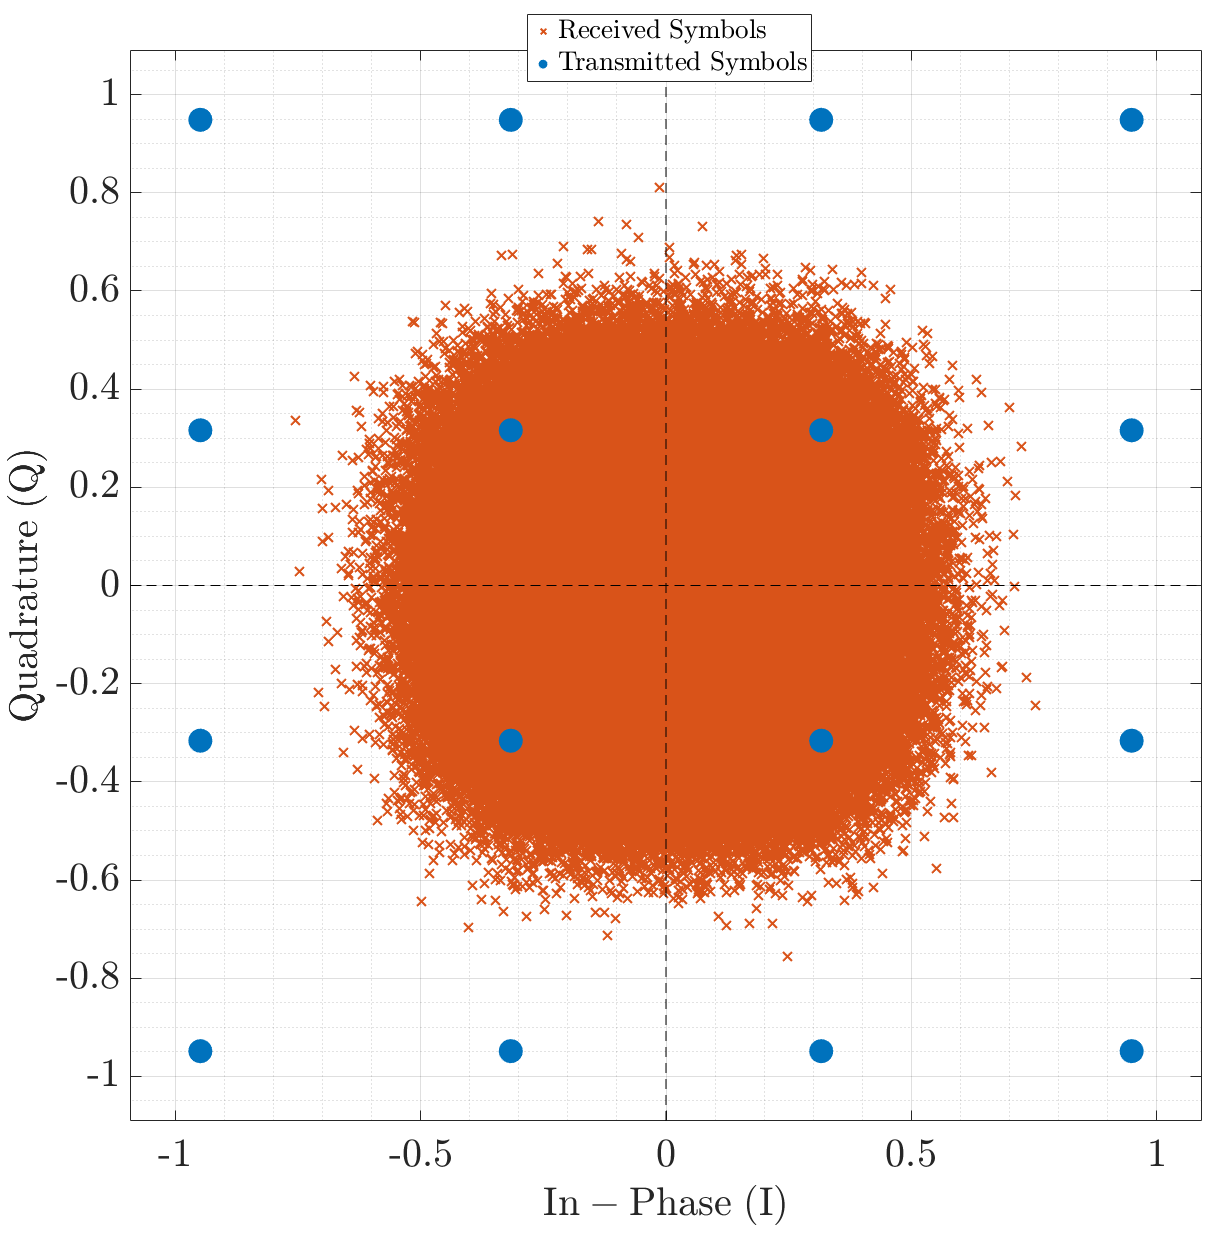
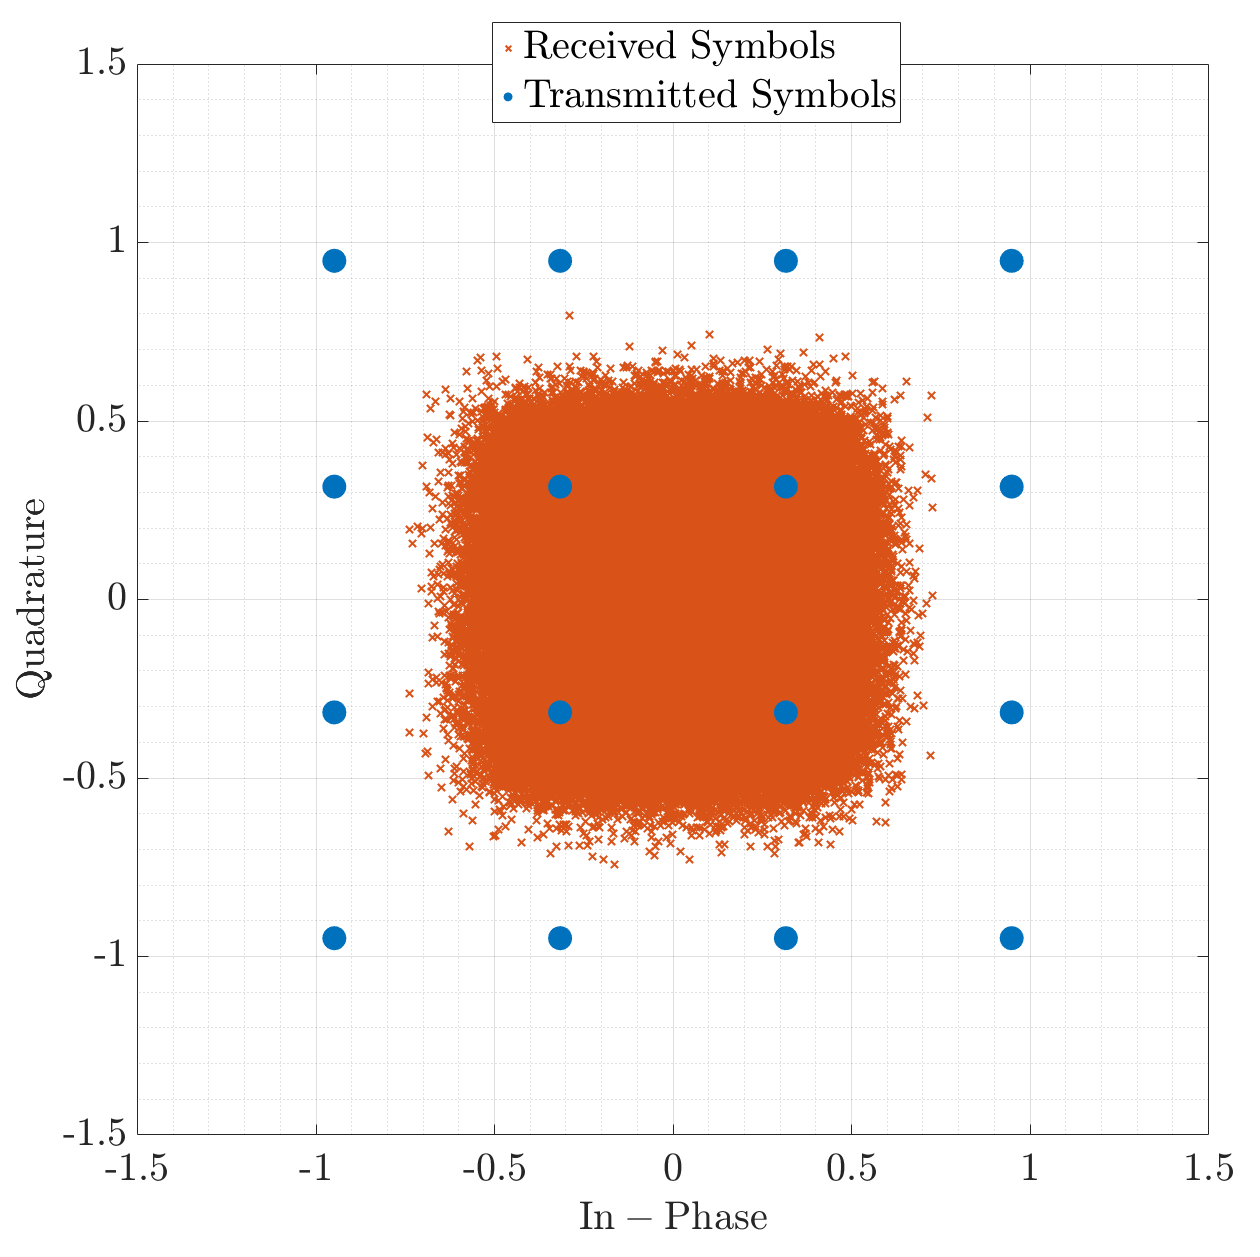
Update Report

diff --git a/ELEC-H401 - Report/Content/part1_v3.tex b/ELEC-H401 - Report/Content/part1_v3.tex
@@ -1,0 +1,149 @@
+\section{Optimal Communication Chain over the Ideal Channel}
+\subsection{Communication Chain}
+\begin{figure}[H]
+	\centering
+	\includegraphics[angle=-90, width=0.9\linewidth]{Images/com-chain} % Ensure 'Images/com-chain' path is correct
+	\caption{Block diagram of the communication system.}
+	\label{fig:com-chain}
+\end{figure}
+The communication chain simulated in this project, depicted in Figure \ref{fig:com-chain}, models the pipeline of a DVB-C transmitter and receiver at baseband. On the transmitter side, a bit-stream is generated, then mapped to complex symbols from a chosen QAM modulation. These symbols are subsequently up-sampled and shaped by a half-root Nyquist filter to limit their bandwidth. On the receiver's side, the transmitted signal is matched-filtered with the same half-root Nyquist filter, in order to maximize the signal-to-noise ratio. The output of this matched filter is then down-sampled at the symbol instances, and these samples are demapped to recover an estimate of the transmitted bit-stream.
+\par
+In this project, the Low Density Parity Check Encoder is not implemented, and the algorithms for symbol mapping and demapping were provided.
+
+\subsection{Bit Generation and Symbol Mapping and Demapping}
+The mapping of bit-streams to complex symbols is used to enhance spectral efficiency, as it allows more bits to be transmitted per symbol over a given bandwidth. In the implemented receiver, symbol demapping converts the noisy received symbols back into an estimated sequence of bits. This demapping was achieved using the Maximum Likelihood (ML) criterion. The ML principle directs the selection of the constellation symbol that is closest to the received sample in terms of minimum Euclidean distance:
+\begin{equation}
+	\tilde{\underline{s}}_{m}^{ML} = \arg\min_{\underline{s}_{m}} \left(\sum_{k=1}^{K}(r_{k}-s_{mk})^{2}\right)
+\end{equation}
+Where:
+\begin{itemize}
+	\item $\tilde{\underline{s}}_{m}^{ML}$ is the estimated symbol using the ML criterion.
+	\item $\underline{r} = [r_1, r_2, \dots, r_K]^T$ is the received vector after demodulation.
+	\item $\underline{s}_{m} = [s_{m1}, s_{m2}, \dots, s_{mK}]^T$ is the vector representing the $m$-th possible transmitted symbol.
+\end{itemize}
+This selection process, by minimizing the squared Euclidean distance, is equivalent to maximizing $\ln p(\underline{r}|\underline{s}_{m})$ for an Additive White Gaussian Noise (AWGN) channel, where $p(\underline{r}|\underline{s}_{m})$ is the conditional probability of receiving vector $\underline{r}$ given that symbol $\underline{s}_m$ was sent.
+
+\subsection{Nyquist Filtering}
+After mapping, the sequence of complex symbols $I[k]$ is up-sampled by a factor of OSF $> 1$. This up-sampled sequence is then passed through a pulse shaping filter $g(t)$. The goals of this filtering are:
+\begin{enumerate}
+	\item To limit the bandwidth of the transmitted signal.
+	\item To control interference between successive symbols.
+\end{enumerate}
+
+\subsubsection{Half-Root Nyquist Filter Design and Matched Filtering}
+To achieve optimal performance regarding Inter-Symbol Interference (ISI) cancellation and to maximize the Signal-to-Noise Ratio at the receiver, a root-raised cosine (RRC) filter was utilized for $g(t)$. This approach involves employing the RRC filter $g(t)$ at the transmitter and its matched version $g^*(-t)$ at the receiver. The convolution of these two filters, $h(t) = g(t) \otimes g^*(-t)$, forms the overall channel response. This resulting $h(t)$ is designed to satisfy the Nyquist criterion for zero ISI, which states that for symbols sampled at intervals $T_{symb}$ (assuming $h(t)$ is normalized):
+\begin{equation}
+	h(kT_{symb}) = \begin{cases}
+		1 & k=0 \\
+		0 & k \neq 0
+	\end{cases}
+	\label{eq:nyquist_criterion_part1}
+\end{equation}
+\par
+The design process for the RRC filter $g(t)$ in this work began with defining the transfer function of a raised-cosine (RC) filter, $H(f)$. From $H(f)$, the frequency response of the RRC filter was determined as $G(f) = \sqrt{H(f)}$, and its time-domain equivalent $g(t)$ was subsequently found using an inverse Fourier transform. The frequency response of the RC filter $H(f)$ is given by:
+\begin{equation}
+	H(f) = \begin{cases}
+		T_{symb} & 0 \le |f| < \frac{1-\beta}{2T_{symb}} \\ 
+		\frac{T_{symb}}{2} \left(1 + \cos\left[\frac{\pi T_{symb}}{\beta}\left(|f| - \frac{1-\beta}{2T_{symb}}\right)\right]\right) & \frac{1-\beta}{2T_{symb}} \le |f| \le \frac{1+\beta}{2T_{symb}} \\ 
+		0 & |f| > \frac{1+\beta}{2T_{symb}}
+	\end{cases}
+	\label{eq:rc_response_part1}
+\end{equation}
+
+\subsubsection{Filter Properties and Inter-Symbol Interference Cancellation}
+The RC filter, formed by $g(t)$ and its matched pair, effectively confines the signal energy within a defined bandwidth $B = R_{symb} (1+\beta)/2$, where $R_{symb} = 1/T_{symb}$ is the symbol rate. The frequency response of the RC filter resulting from the implementation using Equation \ref{eq:rc_response_part1} is shown in Figure \ref{fig:h-rc-freq}. This plot confirms that the filter restricts the signal to its allocated spectrum, showing the  flat passband, a roll-off region, and a stopband. For the project parameters ($R_{symb} = !!!!!!!!!!$ and $\beta = 0.2$), the communication bandwidth is $B = 0.6 R_{symb}$.
+
+\begin{figure}[H]
+	\centering
+	\includegraphics[width=0.9\linewidth]{Images/h-rc-freq} 
+	\caption{Raised Cosine Filter Frequency Response from simulation ($\beta = 0.2$, $taps = 301$, $OSF = 8$).}
+	\label{fig:h-rc-freq}
+\end{figure}
+
+In the time domain, the overall RC filter $h(t) = g(t) \otimes g^*(-t)$ is designed such that when sampled at the symbol rate, its response approximates a Dirac delta function, thereby satisfying the Nyquist criterion for zero ISI (Equation \ref{eq:nyquist_criterion_part1}). Figure \ref{fig:h-rc} shows the impulse response $h(t)$ obtained in the simulation. The stems, representing $h(kT_{symb})$, demonstrate this property: the normalized response is unity at $t=0$ and zero at $t = \pm T_{symb}, \pm 2T_{symb}, \dots$. This result from the simulation confirms that the implemented filter structure successfully nullifies contributions from other symbols at the optimal sampling instant for a given symbol, thus eliminating ISI.
+
+\begin{figure}[H]
+	\centering
+	\includegraphics[width=0.9\linewidth]{Images/h-rc} 
+	\caption{Normalized RC and RRC filter Impulse Responses from simulation, with $h(kT_{symb})$ illustrating ISI cancellation.}
+	\label{fig:h-rc}
+\end{figure}
+
+\subsection{Noise Addition and Performance Evaluation}
+One of the factors limiting communication performance in an ideal channel is Additive White Gaussian Noise (AWGN), which represents the cumulative effect of various sources of interference and thermal noise within a communication system.\par
+
+In the baseband equivalent model used for the simulation, the received signal $r(t)$ is the sum of the transmitted baseband signal $s(t)$ at the output of the pulse shaping filter $g(t)$ and the complex baseband equivalent noise $n(t)$:
+\begin{equation}
+    r(t) = s(t) + n(t)
+\end{equation} \par
+The noise $n(t)$ is a complex Gaussian random process. Its real and imaginary components are independent, each with a power spectral density of $N_0/2$ over the bandwidth of interest.\par
+After matched filtering with $g^*(-t)$ and sampling at $t = kT_{symb}$, the $k$-th received sample $y[k]$ can be expressed as:
+\begin{equation}
+    y[k] = (r(t) \otimes g^*(-t))|_{t=kT_{symb}}
+\end{equation}
+\par
+Given that the overall response $h(t) = g(t) \otimes g^*(-t)$ is designed to satisfy the Nyquist criterion for zero ISI (Equation \ref{eq:nyquist_criterion_part1}, with $h(0)$ normalized to 1):
+\begin{align}
+    y[k] &= I[k]h(0) + \sum_{m \neq k} I[m]h((k-m)T_{symb}) + (n(t) \otimes g^*(-t))|_{t=kT_{symb}} \\
+    y[k] &= I[k](1) + \sum_{m \neq k} I[m](0) + (n(t) \otimes g^*(-t))|_{t=kT_{symb}} \\
+    y[k] &= I[k] + n_o[k] \label{eq:yk_plus_noise}
+\end{align}
+where $I[k]$ is the transmitted complex symbol and $n_o[k]$ represents the noise component at the output of the sampler, $n_o[k] = (n(t) \otimes g^*(-t))|_{t=kT_{symb}}$. The noise samples $n_o[k]$ are complex Gaussian random variables. Since the input noise $n(t)$ is white and Gaussian, and the matched filtering operation is linear, $n_o[k]$ is also Gaussian. The real and imaginary components of $n_o[k]$ are independent, and each has a variance $\sigma^2 = N_0/2$. \par
+
+The main goal of this section of the project is to evaluate the system's performance by simulating the Bit Error Rate (BER) as a function of the ratio of bit energy ($E_b$) to the one-sided power spectral density of noise ($N_0$). This evaluation relies on the derived model in Equation \ref{eq:yk_plus_noise}.
+
+To accurately simulate the system at a specific $E_b/N_0$ value, the power of the simulated noise $n_o[k]$ must be correctly set relative to the signal power. The average energy per symbol $E_s$, for a given QAM constellation, is first calculated as:
+\begin{equation}
+    E_s = \text{E}\left[|I[k]|^2\right]
+\end{equation}
+where $\text{E}[\cdot]$ is the expectation operator. 
+\par
+If each symbol $I[k]$ represents $b = \log_2 M$ information bits (where $M$ is the constellation size), the average energy per bit $E_b$ is:
+\begin{equation}
+    E_b = \frac{E_s}{b} = \frac{E_s}{\log_2 M}
+\end{equation}
+\par
+Given a target $E_b/N_0$ value, $N_0$ can be express:
+\begin{equation}
+    N_0 = \frac{E_b}{(E_b/N_0)_{\text{target}}}
+\end{equation}
+\par
+The complex noise $n_o[k]$ added to each symbol $I[k]$ in the simulation as per Equation \ref{eq:yk_plus_noise} is thus generated with a total variance of $N_0$, meaning its real and imaginary components each have a variance of $N_0/2$.
+
+The experimental BER is obtained by transmitting a large number of random bits through the simulated communication chain, adding the scaled AWGN to the symbols as described, demapping the resulting $y[k]$, and then comparing the recovered bits with the originally transmitted bits:
+\begin{equation}
+    \text{BER}_{\text{exp}} = \frac{\text{Number of erroneously detected bits}}{\text{Total number of transmitted bits}}
+\end{equation}
+The simulated BER values are then plotted against a range of $E_b/N_0$ values. These experimental results are compared against theoretical BER performance for M-QAM to validate the simulation. For square M-QAM constellations with Gray coding, the theoretical Bit Error Rate ($P_b$) is approximated at moderate to high $E_b/N_0$ values by:
+\begin{equation}
+    P_b \approx \frac{4}{\log_2 M} \left(1 - \frac{1}{\sqrt{M}}\right) Q\left(\sqrt{\frac{3 (\log_2 M)^2}{M-1} \frac{E_b}{N_0}}\right)
+    \label{eq:Pb_MQAM_Eb_cont_final}
+\end{equation}
+where $Q(x) = \frac{1}{\sqrt{2\pi}} \int_x^\infty e^{-u^2/2} du$ is the Q-function.
+
+Figure \ref{fig:ber-mod_cont} illustrates the BER curves obtained from the simulations for various QAM modulations. These results demonstrate the  trade-off between spectral efficiency and power efficiency; higher-order modulations achieve higher data rates within the same bandwidth but require more power for the same BER.
+
+\begin{figure}[H]
+    \centering
+    \includegraphics[width=0.9\linewidth]{Images/ber-mod.png}
+    \caption{Simulated BER vs. $E_b/N_0$ for various modulation types}
+    \label{fig:ber-mod_cont}
+\end{figure}
+
+The effect of AWGN on the received signal constellation, leading to the $y[k]$ values, is depicted in Figure \ref{fig:constellations-noise_cont} using results from the 16-QAM simulation. Figure \ref{fig:const-noisy_cont} shows the simulated 16-QAM symbols after the addition of noise, representing $s(t)+n(t)$ before sampling and matched filtering. After, matched filtering and downsampling (leading to $y[k]=I[k]+n_o[k]$), the symbols, as shown in Figure \ref{fig:const-filtered-down_cont}, cluster around the ideal constellation locations, hence validating the SNR maximization effect of the matched filter.
+
+\begin{figure}[H]
+    \centering
+    \begin{subfigure}{0.48\textwidth}
+        \includegraphics[width=\linewidth]{Images/const-noisy.png}
+        \caption{Simulated noisy 16-QAM symbols before matched filter.}
+        \label{fig:const-noisy_cont}
+    \end{subfigure}\hfill
+    \begin{subfigure}{0.48\textwidth}
+        \includegraphics[width=\linewidth]{Images/const-filtered-down.png} 
+        \caption{Simulated 16-QAM symbols after matched filtering and downsampling.}
+        \label{fig:const-filtered-down_cont}
+    \end{subfigure}
+    \caption{Simulation - Effect of AWGN and matched filtering on a 16-QAM constellation}
+    \label{fig:constellations-noise_cont}
+\end{figure}

diff --git a/ELEC-H401 - Report/Content/part1_v2.tex b/ELEC-H401 - Report/Content/part1_v2.tex
@@ -28,7 +28,7 @@ Where:
 \end{itemize}
 
 \subsection{Nyquist Filtering}
-The sequence of complex symbols $I[n]$, after mapping, is up-sampled by a factor of $M > 1$ and then passed through a pulse shaping filter $g(t)$. This filtering is essential for:
+The sequence of complex symbols $I[k]$, after mapping, is up-sampled by a factor of $OSF > 1$ and then passed through a pulse shaping filter $g(t)$. This filtering is essential for:
 \begin{enumerate}
 	\item Limiting the bandwidth of the transmitted signal.
 	\item Controlling interference between successive symbols.
@@ -67,11 +67,92 @@ In the time domain, the impulse response of the overall RC filter $h(t)$, when s
 \begin{figure}[H]
 	\centering
 	\includegraphics[width=0.9\linewidth]{Images/h-rc} % Ensure 'Images/h-rc' path is correct
-	\caption{Normalized RC and RRC filter Impulse Responses}
+	\caption{Normalized RC and RRC filter Impulse Responses, and ISI cancellation}
 	\label{fig:h-rc}
 \end{figure}
 
 \subsection{Noise Addition and Performance Evaluation}
-\textcolor{red}{[LATER]}
+One of the factor limiting communication performance in an ideal channel is the Additive White Gaussian Noise, which represents the cumulative effect of various sources of interference and thermal noise within a communication system.\par
+
+In the baseband equivalent model, the received signal $r(t)$ is the sum of the transmitted baseband signal $s(t)$ and the complex baseband equivalent noise $n(t)$:
+\begin{equation}
+    r(t) = s(t) + n(t)
+\end{equation} \par
+The noise $n(t)$ is a complex Gaussian random process. Its real and imaginary components are independant, each with a power spectral density of ${N_0}/{2}$ over the bandwidth of interest.\par
+After matched filtering with $g(-t)$ and sampling at $t = kT_{symb}$, the $k$-th received sample $y[k]$
+can be expressed as
+\begin{equation}
+    y[k] = (r(t) \otimes g(-t))|_{t=kT_{symb}}
+\end{equation}
+\par
+Given that the overall response $h(t) = g(t) \otimes g(-t)$ is designed to satisfy the Nyquist criterion for zero ISI:
+\begin{align}
+    y[k] &= I[k]h(0) + \sum_{m \neq k} I[m]h((k-m)T_{symb}) + (n(t) \otimes g(-t))|_{t=kT_{symb}}\\
+    y[k] &= I[k] + (n(t) \otimes g(-t))|_{t=kT_{symb}}\\
+    y[k] &= I[k] + n_o[k]
+\end{align}
+where $I[k]$ is the transmitted complex symbol and $n_o[k]$ represents the noise component at the output of the sampler, given by $n_o[k] = (n(t) \otimes g(-t))|_{t=kT_{symb}}$. The noise samples $n_o[k]$ are complex Gaussian random variables. Since the input noise $n(t)$ is white and Gaussian, and the matched filtering operation is linear, $n_o[k]$ is also Gaussian. The real and imaginary components of $n_o[k]$ are independent, and each has a variance $\sigma^2 = N_0/2$ \par
+
+The main goal of this section of the project is to evaluate the system's performance by simulating the Bit Error Rate as a function of the ratio of bit energy ($E_b$) to the one-sided power spectral density of noise ($N_0$)
+
+To accurately simulate the system at a specific $E_b/N_0$ value, the power of the simulated noise must be correctly set relative to the signal power. The average energy per symbol $E_s$, for a given QAM constellation is calculated as:
+\begin{equation}
+    E_s = \text{E}\left[|I[k]|^2\right]
+\end{equation}
+where $\text{E}[\cdot]$ is the expectation operator. If each symbol $I[k]$ represents $b = \log_2 M$ information bits (where $M$ is the constellation size), the average energy per bit $E_b$ is:
+\begin{equation}
+    E_b = \frac{E_s}{b} = \frac{E_s}{\log_2 M}
+\end{equation}
+
+\par
+Given a target $E_b/N_0$ value, the required $N_0$ can be determined:
+\begin{equation}
+    N_0 = \frac{E_b}{(E_b/N_0)_{\text{target}}}
+\end{equation}
+
+\par
+The complex noise $n_o[k]$ added to each symbol $I[k]$ in the simulation is thus generated with a total variance of $N_0$, meaning that its real and imaginary components each have a variance of $N_0/2$.
+
+The experimental BER is obtained by transmitting a large number of random bits through the simulated communication chain, adding the appropriately scaled AWGN, demapping the received symbols, and then comparing the recovered bits with the originally transmitted bits:
+\begin{equation}
+    \text{BER}_{\text{exp}} = \frac{\text{Number of erroneously detected bits}}{\text{Total number of transmitted bits}}
+\end{equation}
+The simulated BER values are then plotted against a range of $E_b/N_0$ values. These experimental results are compared against theoretical BER performance for M-QAM to validate the simulation. For square M-QAM constellations with Gray coding, the theoretical BER can be approximated by recognizing that M-QAM can be decomposed into two independent $\sqrt{M}$-PAM systems. The BER theoritical is approximated at moderate to high $E_b/N_0$ values by:
+\begin{equation}
+    P_b \approx \frac{4}{\log_2 M} \left(1 - \frac{1}{\sqrt{M}}\right) Q\left(\sqrt{\frac{3 (\log_2 M)^2}{M-1} \frac{E_b}{N_0}}\right)
+    \label{eq:Pb_MQAM_Eb_cont}
+\end{equation}
+where $Q(x) = \frac{1}{\sqrt{2\pi}} \int_x^\infty e^{-u^2/2} du$ is the Q-function.
+
+Figure \ref{fig:ber-mod_cont} illustrates the simulated BER curves for various QAM modulations, demonstrating the trade-off between spectral efficiency and power efficiency; higher-order modulations achieve higher data rates within the same bandwidth but require more power (higher $E_b/N_0$) for the same BER.
+
+\begin{figure}[H]
+    \centering
+    \includegraphics[width=0.9\linewidth]{Images/ber-mod.png}
+    \caption{BER vs. $E_b/N_0$ for various modulation type.}
+    \label{fig:ber-mod_cont}
+\end{figure}
+
+The effect of AWGN on the received signal constellation is depicted in Figure \ref{fig:constellations-noise_cont}. Figure \ref{fig:const-noisy_cont} shows conceptually how noise spreads the ideal constellation points. After matched filtering and optimal sampling, as shown in Figure \ref{fig:const-filtered-down_cont}, the signal points cluster around the ideal constellation locations, illustrating the SNR maximization by the matched filter before demapping.
+
+\begin{figure}[H]
+    \centering
+    \begin{subfigure}{0.48\textwidth}
+        \includegraphics[width=\linewidth]{Images/const-noisy.png}
+        \caption{Simulated noisy 16-QAM symbols before filtering.}
+        \label{fig:const-noisy_cont}
+    \end{subfigure}\hfill
+    \begin{subfigure}{0.48\textwidth}
+        \includegraphics[width=\linewidth]{Images/const-filtered-down.png} 
+        \caption{Simulated 16-QAM symbols after matched filtering and sampling.}
+        \label{fig:const-filtered-down_cont}
+    \end{subfigure}
+    \caption{Effect of AWGN and matched filtering on a 16-QAM constellation.}
+    \label{fig:constellations-noise_cont}
+\end{figure}
+
+The agreement between the simulated BER performance and the theoretical predictions based on Equation \ref{eq:Pb_MQAM_Eb_cont} serves as a verification of the correct implementation and understanding of the optimal communication chain components under AWGN conditions.
+
+
 \subsection{Questions and Answers}
 \textcolor{red}{[LATER]}

diff --git a/Final Code/Part I/p1_functions/plotConstellation_Tx_Rx.m b/Final Code/Part I/p1_functions/plotConstellation_Tx_Rx.m
@@ -14,27 +14,19 @@ function hFig = plotConstellation_Tx_Rx(ModulationOrder, ModulationType, symb_tx
     scatter(ax, real(symb_rx), imag(symb_rx), 60, 'x', 'MarkerEdgeColor', rxColor, 'LineWidth', 1.5, 'DisplayName', 'Received Symbols');
     scatter(ax, real(symb_tx), imag(symb_tx), 300, 'o', 'filled', 'MarkerFaceColor', txColor, 'MarkerEdgeColor', txColor, 'DisplayName', 'Transmitted Symbols');
 
-    all_vals_for_max_calc = [real(symb_tx(:)); real(symb_rx(:)); imag(symb_tx(:)); imag(symb_rx(:))];
-    max_coord = max([0; abs(all_vals_for_max_calc)], [], 'omitnan');
-    
-    lim_val_intermediate = max_coord * 1.15;
-    lim_val = (lim_val_intermediate < 1e-5) * 1.0 + (lim_val_intermediate >= 1e-5) * lim_val_intermediate;
-
-    % plot(ax, [-lim_val, lim_val], [0 0], 'k--', 'LineWidth', 0.5, 'HandleVisibility','off');
-    % plot(ax, [0 0], [-lim_val, lim_val], 'k--', 'LineWidth', 0.5, 'HandleVisibility','off');
-
+   
     axis(ax, 'equal');
-    xlim(ax, [-lim_val, lim_val]);
-    ylim(ax, [-lim_val, lim_val]);
+    xlim(ax, [-1.5, 1.5]);
+    ylim(ax, [-1.5, 1.5]);
 
-    xlabel(ax, '$\mathrm{In-Phase})$', 'FontSize', 30);
-    ylabel(ax, '$\mathrm{Quadrature}', 'FontSize', 30);
-    title(ax, sprintf('$%s$: Transmitted vs. Received Symbols', modStr), 'FontSize', 30);
+    xlabel(ax, '$\mathrm{In-Phase}$', 'FontSize', 30);
+    ylabel(ax, '$\mathrm{Quadrature}$', 'FontSize', 30);
+    % title(ax, sprintf('$%s$: Transmitted vs. Received Symbols', modStr), 'FontSize', 30);
     
     grid(ax, 'on');
     grid(ax, 'minor');
     lgd = legend(ax, 'show', 'Location', 'best');
-    lgd.FontSize = 20;
+    lgd.FontSize = 30;
     box(ax, 'on');
     hold(ax, 'off');
 end

diff --git a/ELEC-H401 - Report/Content/part2_v2.tex b/ELEC-H401 - Report/Content/part2_v2.tex
@@ -57,7 +57,7 @@ The first term, $I[n]h(t_0)$, represents the attenuated desired symbol (since $h
 		\caption{16-QAM Constellation diagram after CFO, Phase Offset and time offset}
 		\label{fig:cfo-po-to-sub}
 	\end{subfigure}
-	\caption{Constellation Diagrams of symbols transmitted and received after adding AWGN noise such that $\frac{E_b}{N_0} = 20$ dB.}
+	\caption{Constellation diagrams of symbols transmitted and received after adding AWGN noise such that $\frac{E_b}{N_0} = 20$ dB, and filtering.}
 	\label{fig:cfo-combined}
 \end{figure}
 
